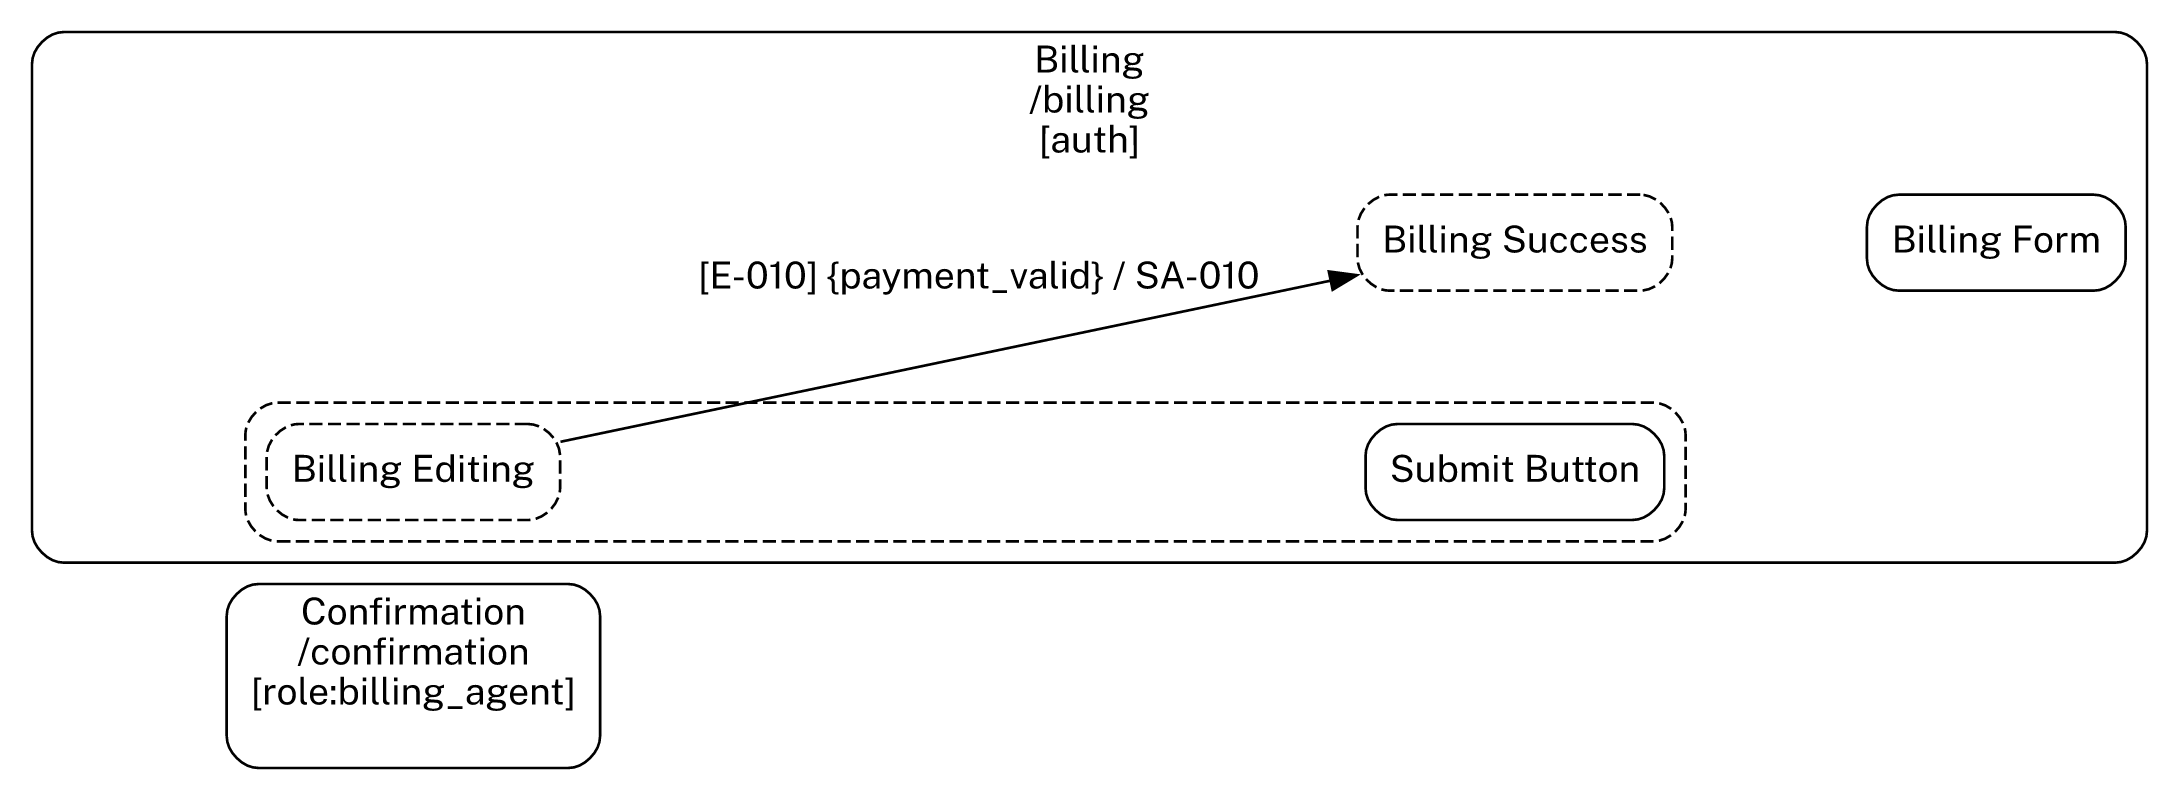
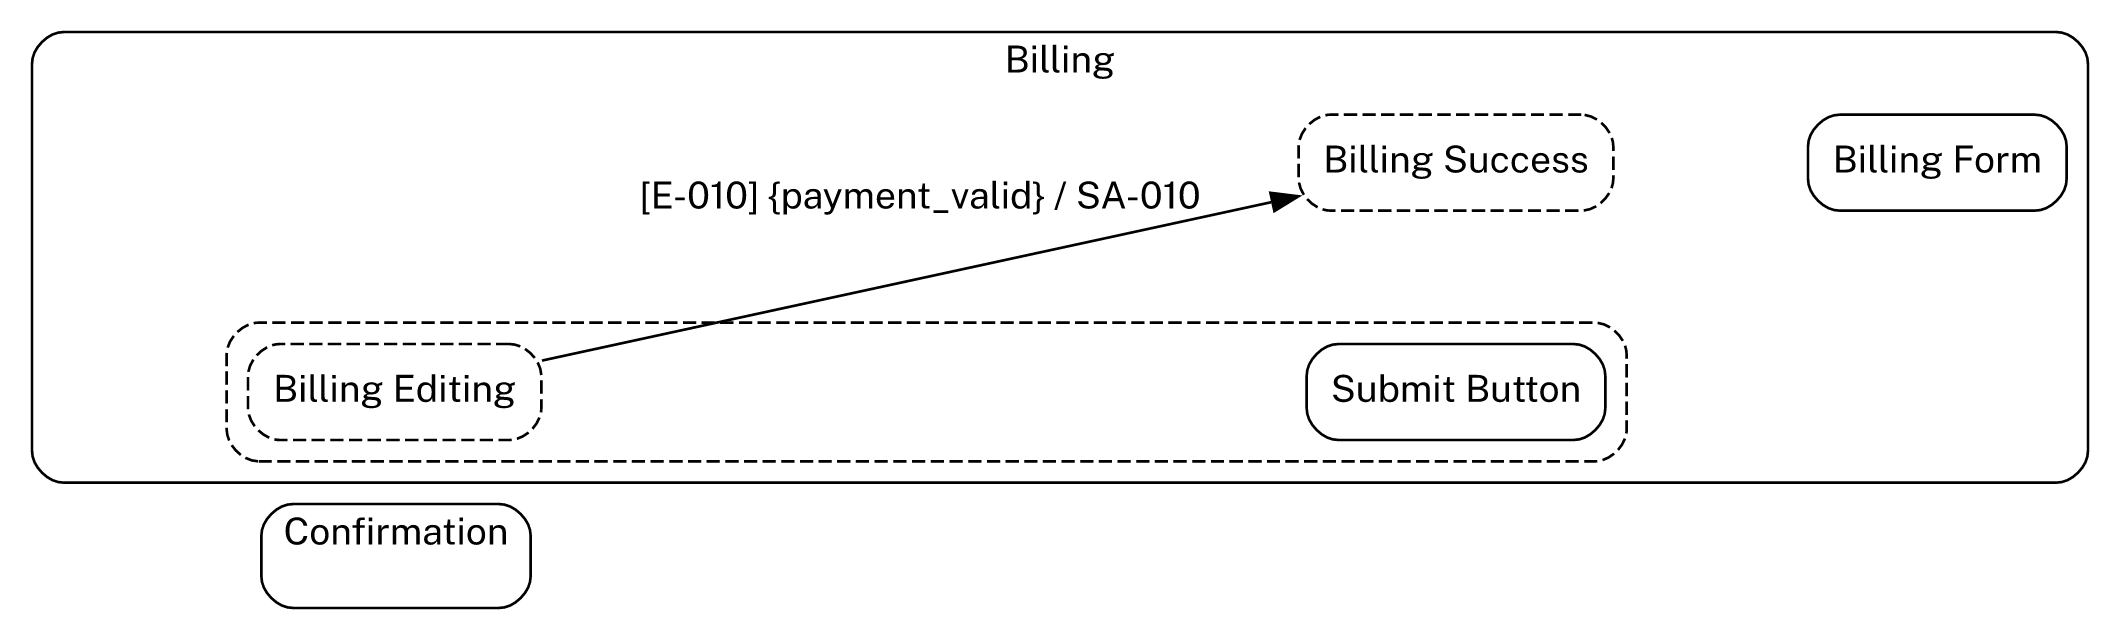
Improved "simple" profile

diff --git a/tests/render_profile_display.spec.ts b/tests/render_profile_display.spec.ts
@@ -4,7 +4,6 @@ import { fileURLToPath } from "node:url";
 import { describe, expect, it } from "vitest";
 import { compileSource, loadBundle, renderSource } from "../src/index.js";
 import { projectView } from "../src/projector/projectView.js";
-import { normalizeLineEndings } from "./textNormalization.js";
 
 const repoRoot = path.resolve(path.dirname(fileURLToPath(import.meta.url)), "..");
 const manifestPath = path.join(repoRoot, "bundle/v0.1/manifest.yaml");
@@ -19,7 +18,7 @@ async function loadExampleInput(bundleRoot: string, exampleName: string): Promis
 }
 
 describe("profile-aware render detail", () => {
-  it("keeps ia_place_map output unchanged across simple and permissive", async () => {
+  it("hides route, access, and entry-point annotations in simple ia_place_map while keeping primary_nav", async () => {
     const bundle = await loadBundle(manifestPath);
     const input = await loadExampleInput(bundle.rootDir, "place_viewstate_transition");
 
@@ -37,7 +36,39 @@ describe("profile-aware render detail", () => {
 
       expect(simple.diagnostics.filter((diagnostic) => diagnostic.severity === "error")).toEqual([]);
       expect(permissive.diagnostics.filter((diagnostic) => diagnostic.severity === "error")).toEqual([]);
-      expect(normalizeLineEndings(simple.text!)).toBe(normalizeLineEndings(permissive.text!));
+      expect(simple.text).not.toContain("/billing");
+      expect(simple.text).not.toContain("[auth]");
+      expect(simple.text).not.toContain("entry_points:");
+      expect(simple.text).toContain("primary_nav: true");
+      expect(permissive.text).toContain("/billing");
+      expect(permissive.text).toContain("[auth]");
+      expect(permissive.text).toContain("entry_points:");
+      expect(permissive.text).toContain("primary_nav: true");
+    }
+  });
+
+  it("hides route and access annotations in simple ia_place_map examples that do not use primary_nav", async () => {
+    const bundle = await loadBundle(manifestPath);
+    const input = await loadExampleInput(bundle.rootDir, "outcome_to_ia_trace");
+
+    for (const format of formats) {
+      const simple = renderSource(input, bundle, {
+        viewId: "ia_place_map",
+        format,
+        profileId: "simple"
+      });
+      const permissive = renderSource(input, bundle, {
+        viewId: "ia_place_map",
+        format,
+        profileId: "permissive"
+      });
+
+      expect(simple.text).not.toContain("/checkout/billing");
+      expect(simple.text).not.toContain("/checkout/review");
+      expect(simple.text).not.toContain("[auth]");
+      expect(permissive.text).toContain("/checkout/billing");
+      expect(permissive.text).toContain("/checkout/review");
+      expect(permissive.text).toContain("[auth]");
     }
   });
 
@@ -151,10 +182,14 @@ describe("profile-aware render detail", () => {
       });
 
       expect(simple.text).toContain("Billing Editing");
+      expect(simple.text).not.toContain("/billing");
+      expect(simple.text).not.toContain("[auth]");
       expect(simple.text).not.toContain("data: PaymentMethod");
       expect(simple.text).not.toContain("State detail: Billing Form");
       expect(simple.text).not.toContain("Form Ready");
       expect(simple.text).not.toContain("Supporting Contracts");
+      expect(permissive.text).toContain("/billing");
+      expect(permissive.text).toContain("[auth]");
       expect(permissive.text).toContain("data: PaymentMethod");
       expect(permissive.text).toContain("State detail: Billing Form");
       expect(permissive.text).toContain("Supporting Contracts");
@@ -171,9 +206,18 @@ describe("profile-aware render detail", () => {
         format,
         profileId: "simple"
       });
+      const permissive = renderSource(input, bundle, {
+        viewId: "ui_contracts",
+        format,
+        profileId: "permissive"
+      });
 
       expect(simple.text).toContain("State graph: Case Review");
       expect(simple.text).toContain("State graph: Review Panel");
+      expect(simple.text).not.toContain("/cases/review");
+      expect(simple.text).not.toContain("[auth]");
+      expect(permissive.text).toContain("/cases/review");
+      expect(permissive.text).toContain("[auth]");
     }
   });
 

diff --git a/src/renderer/placeLabelLines.ts b/src/renderer/placeLabelLines.ts
@@ -1,3 +1,6 @@
+import type { ResolvedProfileDisplayPolicy } from "./profileDisplay.js";
+import { readBooleanProfileDisplaySetting } from "./profileDisplay.js";
+
 export interface PlaceLabelMetadata {
   key: string;
   value: string;
@@ -14,24 +17,58 @@ export interface PlaceLabelOptions {
   includeSubtitle?: boolean;
   includeBadge?: boolean;
   includeMetadata?: boolean;
+  displayPolicy?: ResolvedProfileDisplayPolicy;
+}
+
+export interface ResolvedPlaceLabelDisplayOptions {
+  showPlaceRouteOrKey: boolean;
+  showPlaceAccess: boolean;
+  showPlaceEntryPoints: boolean;
+  showPlacePrimaryNav: boolean;
+}
+
+export function resolvePlaceLabelDisplayOptions(
+  policy: ResolvedProfileDisplayPolicy = {}
+): ResolvedPlaceLabelDisplayOptions {
+  return {
+    showPlaceRouteOrKey: readBooleanProfileDisplaySetting(policy, "show_place_route_or_key", true),
+    showPlaceAccess: readBooleanProfileDisplaySetting(policy, "show_place_access", true),
+    showPlaceEntryPoints: readBooleanProfileDisplaySetting(policy, "show_place_entry_points", true),
+    showPlacePrimaryNav: readBooleanProfileDisplaySetting(policy, "show_place_primary_nav", true)
+  };
+}
+
+function shouldIncludeMetadata(
+  metadata: PlaceLabelMetadata,
+  displayOptions: ResolvedPlaceLabelDisplayOptions
+): boolean {
+  switch (metadata.key) {
+    case "entry_points":
+      return displayOptions.showPlaceEntryPoints;
+    case "primary_nav":
+      return displayOptions.showPlacePrimaryNav;
+    default:
+      return true;
+  }
 }
 
 export function buildIaStylePlaceLabelLines(
   parts: PlaceLabelParts,
   options: PlaceLabelOptions = {}
 ): string[] {
+  const displayOptions = resolvePlaceLabelDisplayOptions(options.displayPolicy);
   const lines = [parts.name];
 
-  if (options.includeSubtitle !== false && parts.subtitle) {
+  if (options.includeSubtitle !== false && displayOptions.showPlaceRouteOrKey && parts.subtitle) {
     lines.push(parts.subtitle);
   }
 
-  if (options.includeBadge !== false && parts.badge) {
+  if (options.includeBadge !== false && displayOptions.showPlaceAccess && parts.badge) {
     lines.push(`[${parts.badge}]`);
   }
 
   if (options.includeMetadata !== false) {
-    for (const metadata of parts.metadata ?? []) {
+    for (const metadata of (parts.metadata ?? []).filter((entry) => shouldIncludeMetadata(entry, displayOptions))) {
       lines.push(`${metadata.key}: ${metadata.value}`);
     }
   }

diff --git a/tests/renderedCorpus.spec.ts b/tests/renderedCorpus.spec.ts
@@ -55,4 +55,36 @@ describe("rendered example corpus", () => {
     expect(svg).not.toContain("Billing\\n/billing\\n[auth]");
     expect(svg).not.toContain("Billing Editing\\ndata: PaymentMethod");
   });
+
+  it("keeps forbidden place routing and access fields out of simple rendered corpus artifacts", async () => {
+    const bundle = await loadBundle(manifestPath);
+    const discovery = await discoverCuratedRenderedExamplePairs(bundle);
+    const variants = expandCuratedRenderedExampleVariants(bundle, discovery.pairs).filter(
+      (variant) => variant.profileId === "simple"
+    );
+
+    for (const variant of variants) {
+      const outputPaths = planRenderedCorpusOutputPaths(bundle, variant);
+      const dot = await readFile(outputPaths.dotOutputPath, "utf8");
+      const mermaid = await readFile(outputPaths.mermaidOutputPath, "utf8");
+
+      for (const text of [dot, mermaid]) {
+        expect(text).not.toContain("entry_points:");
+        expect(text).not.toContain("[auth]");
+        expect(text).not.toContain("[role:");
+        expect(text).not.toContain("/billing");
+        expect(text).not.toContain("/checkout/");
+        expect(text).not.toContain("/cases/review");
+      }
+    }
+
+    const iaVariant = variants.find((variant) => (
+      variant.viewId === "ia_place_map"
+      && variant.example.name === "place_viewstate_transition"
+    ));
+    expect(iaVariant).toBeDefined();
+
+    const iaDot = await readFile(planRenderedCorpusOutputPaths(bundle, iaVariant!).dotOutputPath, "utf8");
+    expect(iaDot).toContain("primary_nav: true");
+  });
 });

diff --git a/src/renderer/uiContractsRenderModel.ts b/src/renderer/uiContractsRenderModel.ts
@@ -254,7 +254,11 @@ function contractEdgeDisplay(edge: Pick<CompiledEdge, "type" | "props">): Omit<U
   }
 }
 
-function buildPlaceLabelLines(placeId: string, graphNodesById: Map<string, { name: string; props: Record<string, string> }>): string[] {
+function buildPlaceLabelLines(
+  placeId: string,
+  graphNodesById: Map<string, { name: string; props: Record<string, string> }>,
+  displayPolicy: ResolvedProfileDisplayPolicy
+): string[] {
   const place = graphNodesById.get(placeId);
   if (!place) {
     return [placeId];
@@ -264,6 +268,8 @@ function buildPlaceLabelLines(placeId: string, graphNodesById: Map<string, { nam
     name: place.name,
     subtitle: place.props.route_or_key,
     badge: place.props.access
+  }, {
+    displayPolicy
   });
 }
 
@@ -485,7 +491,7 @@ export function buildUiContractsRenderModel(
     return {
       kind: "place",
       id: placeId,
-      labelLines: buildPlaceLabelLines(placeId, graphNodesById),
+      labelLines: buildPlaceLabelLines(placeId, graphNodesById, displayPolicy),
       anchorId: `${placeId}__anchor`,
       childItems,
       orderAnchorId: `${placeId}__anchor`

diff --git a/src/renderer/iaPlaceMapRenderModel.ts b/src/renderer/iaPlaceMapRenderModel.ts
@@ -53,7 +53,7 @@ export function buildIaPlaceMapRenderModel(
   projection: Projection,
   graph: CompiledGraph,
   hierarchyEdgeTypes: string[],
-  _displayPolicy: ResolvedProfileDisplayPolicy = {}
+  displayPolicy: ResolvedProfileDisplayPolicy = {}
 ): IaPlaceMapRenderModel {
   const graphNodesById = new Map(graph.nodes.map((node) => [node.id, node]));
   const projectionNodesById = new Map(projection.nodes.map((node) => [node.id, node]));
@@ -98,6 +98,8 @@ export function buildIaPlaceMapRenderModel(
       subtitle: display?.subtitle ?? graphNode?.props.route_or_key,
       badge: display?.badge ?? graphNode?.props.access,
       metadata: display?.metadata ?? []
+    }, {
+      displayPolicy
     });
 
     const childItems = getSourceOrderedStructuralStream(graph, placeId, hierarchyEdgeTypes, visiblePlaceIds)

diff --git a/src/projector/iaPlaceMap.ts b/src/projector/iaPlaceMap.ts
@@ -88,7 +88,7 @@ export function buildIaPlaceMapProjection(graph: CompiledGraph, bundle: Bundle, 
     omissions,
     notes:
       nodeAnnotations.length > 0
-        ? ["Place route, access, and entry metadata are rendered as node annotations."]
+        ? ["Place route, access, and entry metadata are available as node annotations for profile-aware rendering."]
         : ["Hierarchy for IA view is driven by CONTAINS."]
   });
 }

diff --git a/Readme.md b/Readme.md
@@ -50,7 +50,7 @@ Current scope:
 - renderable views: `ia_place_map`, `journey_map`, `outcome_opportunity_map`, `service_blueprint`, `scenario_flow`, and `ui_contracts`
 - render targets: DOT and Mermaid for all renderable views
 - preview path: `sdd show` for DOT-backed SVG/PNG artifacts
-- committed rendered example corpus: `examples/rendered/v0.1/` with suffixed view/example/profile folders such as `ia_place_map_diagram_type/outcome_to_ia_trace_example/recommended_profile`, where `simple_profile` may omit optional overlays for lower-noise review
+- committed rendered example corpus: `examples/rendered/v0.1/` with suffixed view/example/profile folders such as `ia_place_map_diagram_type/outcome_to_ia_trace_example/recommended_profile`, where `simple_profile` omits lower-priority overlays including place route/access/entry-point fields
 
 Contributor reference docs:
 
@@ -71,11 +71,6 @@ Common commands:
 - `pnpm sdd render bundle/v0.1/examples/outcome_to_ia_trace.sdd --view journey_map --format mermaid`
 - `pnpm sdd render bundle/v0.1/examples/place_viewstate_transition.sdd --view ui_contracts --format dot`
 - `pnpm sdd show bundle/v0.1/examples/outcome_to_ia_trace.sdd --view outcome_opportunity_map --out /tmp/outcome-map.svg`
-
-## 3. [Done] Expanded the New Toolchain to Cover Remaining View Types
-
-Executed the following: docs/Done/[Done] view_implementation_execution_prompts.md
-...covering all diagram types.
 
 ## Project Guidance
 

diff --git a/docs/toolchain/architecture.md b/docs/toolchain/architecture.md
@@ -99,7 +99,7 @@ The CLI owns preview artifact generation on top of those text renderers:
 - Public Sans webfont embedding for portable SVG output
 - SVG-to-PNG rasterization with a vendored desktop Public Sans font for image export
 
-Profiles are validation overlays, not language variants. The core bundle defines syntax and compiled graph shape; profiles decide how much completeness and governance to enforce on top of that. Projection scope stays profile-agnostic, while render-model builders may use profile-specific display policy to suppress optional overlays in `simple`. Use `simple` for low-noise drafts, `permissive` for warning-first completeness, and `recommended` for strict authoring. See [profiles.md](./profiles.md).
+Profiles are validation overlays, not language variants. The core bundle defines syntax and compiled graph shape; profiles decide how much completeness and governance to enforce on top of that. Projection scope stays profile-agnostic, while render-model builders may use profile-specific display policy to suppress optional overlays in `simple`, including hiding place route/access/entry-point fields while leaving existing `primary_nav` annotations intact. Use `simple` for low-noise drafts, `permissive` for warning-first completeness, and `recommended` for strict authoring. See [profiles.md](./profiles.md).
 
 ## Renderable Views
 

diff --git a/docs/toolchain/profiles.md b/docs/toolchain/profiles.md
@@ -8,6 +8,8 @@ Profiles change validation strictness without changing `.sdd` syntax, compiled g
 - `permissive`: warning-first completeness; keeps the current governance-oriented rules active, mostly as warnings
 - `recommended`: strict governance for production-ready models
 
+In v0.1 rendering, `simple` suppresses place `route_or_key`, `access`, and `entry_points` wherever a renderer could otherwise show them. `primary_nav` remains visible only in views that already render it.
+
 ## When To Use Which
 
 - Use `simple` when the goal is to capture structure and flow without filling in repetitive metadata yet.
